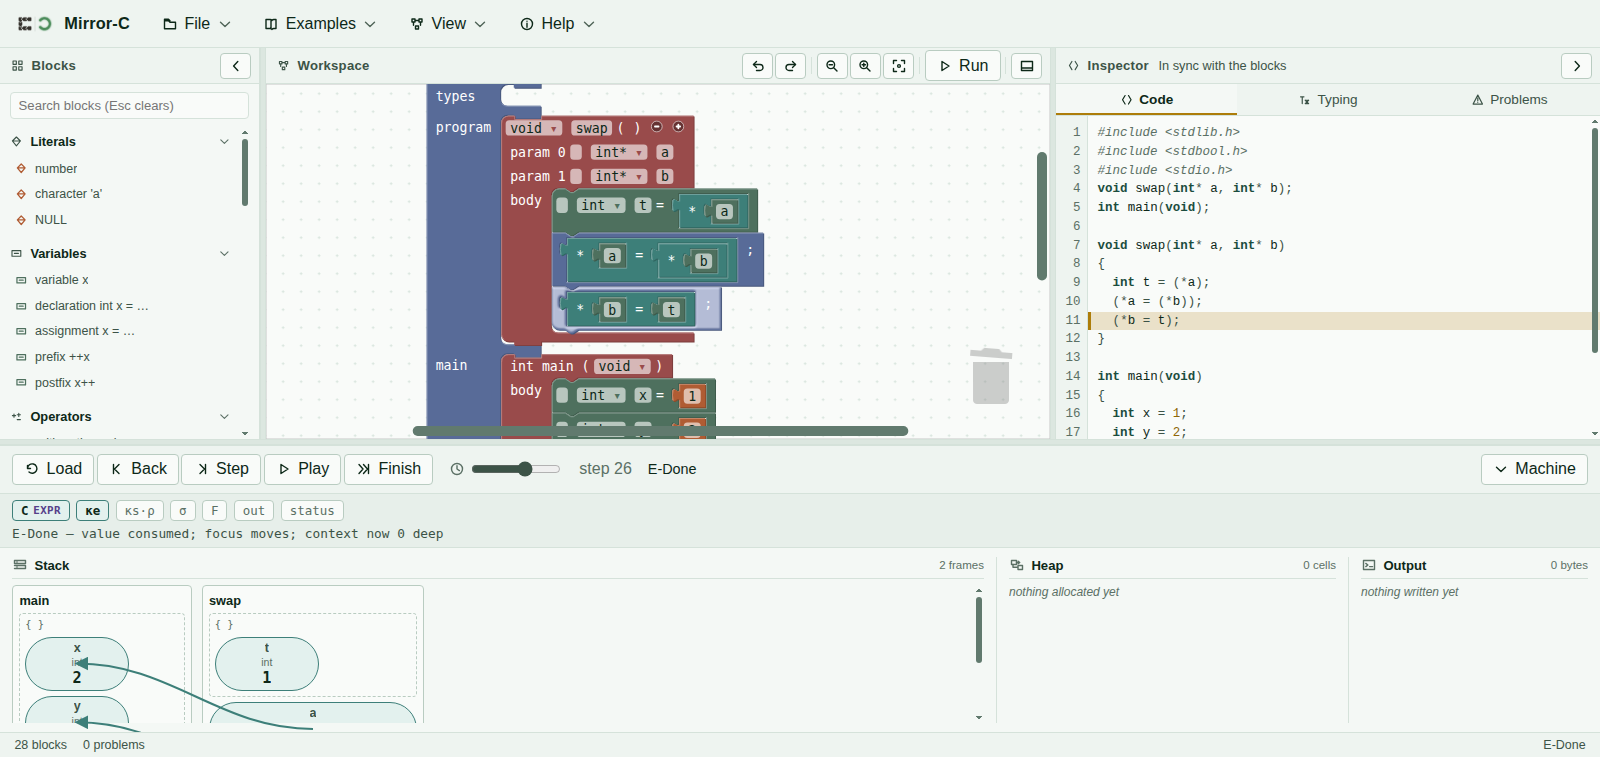
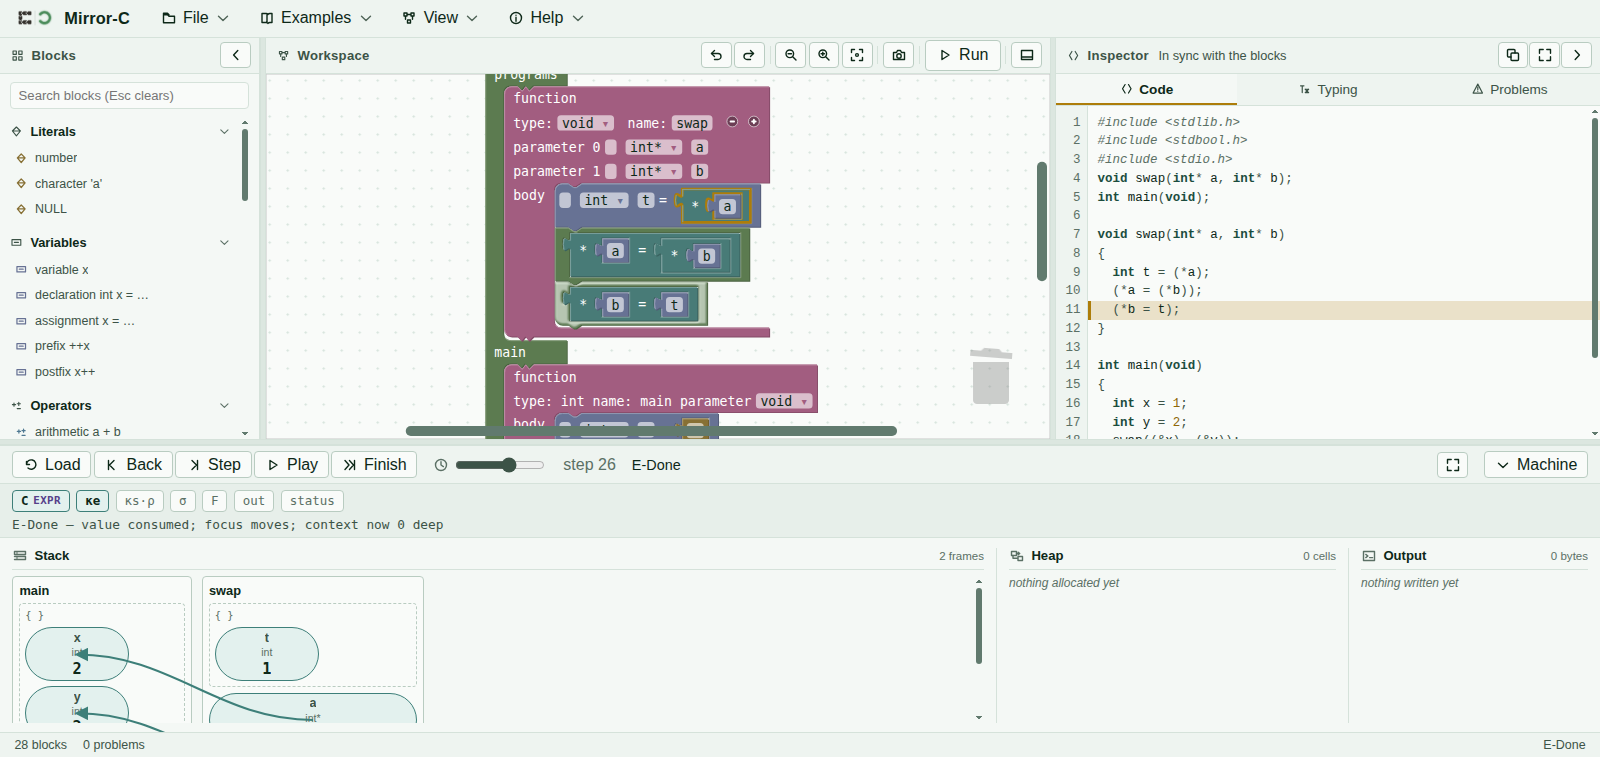
update help of mirror-c

diff --git a/help-mirror-c/blocks.html b/help-mirror-c/blocks.html
@@ -92,6 +92,13 @@
                     workspace or dragged into it; a click drops it on a small cascading offset so repeated clicks do
                     not stack invisibly, a drag lands exactly under the cursor at whatever zoom you are at.</p>
 
+                <figure class="help-fig is-shot">
+                    <img src="assets/img/mirror-c-palette.png" loading="lazy"
+                        alt="Mirror-C's default boot program with the block palette open on the left, showing the Literals, Variables and Operators drawers and the search box above them.">
+                    <figcaption><b>Fig. 1</b> The palette, on the default boot program &mdash; a minimal
+                        <code>main</code> with nothing else built yet.</figcaption>
+                </figure>
+
                 <div class="help-table-wrap">
                     <table class="help-table">
                         <thead>
@@ -114,8 +121,8 @@
                                     &middot; <code>element&nbsp;a[i]&nbsp;&middot;&nbsp;a[i][j]</code> &middot;
                                     <code>element&nbsp;assignment</code></td></tr>
                             <tr><td><b>Structs &amp; enums</b></td>
-                                <td><code>struct&nbsp;definition</code> &middot; <code>union&nbsp;definition</code>
-                                    &middot; <code>enum&nbsp;definition</code> &middot; <code>field&nbsp;s.f</code>
+                                <td><code>structure&nbsp;definition</code> &middot; <code>union&nbsp;definition</code>
+                                    &middot; <code>enumeration&nbsp;definition</code> &middot; <code>field&nbsp;s.f</code>
                                     &middot; <code>field&nbsp;assignment</code> &middot;
                                     <code>arrow&nbsp;field&nbsp;p-&gt;f</code> &middot; <code>arrow&nbsp;assignment</code></td></tr>
                             <tr><td><b>Pointers</b></td>
@@ -127,13 +134,13 @@
                                 <td><code>call&nbsp;f(&hellip;)</code></td></tr>
                             <tr><td><b>Statements</b></td>
                                 <td><code>expression&nbsp;statement&nbsp;&hellip;;</code> &middot;
-                                    <code>printf(&nbsp;"&hellip;"&nbsp;,&nbsp;&hellip;&nbsp;)</code></td></tr>
+                                    <code>printf&nbsp;"&hellip;"&nbsp;&hellip;</code></td></tr>
                             <tr><td><b>Control</b></td>
                                 <td><code>if&nbsp;/&nbsp;else</code> &middot; <code>while</code> &middot;
                                     <code>for</code> &middot; <code>break</code> &middot; <code>continue</code>
                                     &middot; <code>return</code></td></tr>
                             <tr><td><b>Memory</b></td>
-                                <td><code>free(&nbsp;p&nbsp;)</code></td></tr>
+                                <td><code>free&nbsp;p</code></td></tr>
                             <tr><td><b>Functions</b></td>
                                 <td><code>function&nbsp;definition</code></td></tr>
                         </tbody>
@@ -143,9 +150,13 @@
                 <p>Two labelling choices are worth knowing about so a name doesn't slow you down. <code>printf</code>
                     lives in <b>Statements</b> rather than in a drawer of its own &mdash; it is one statement among
                     several, not a category the way <code>malloc</code>/<code>free</code> earn one. And a block's
-                    label is usually its own surface syntax (<code>&amp; x</code>, <code>* p</code>,
+                    label stays close to its own surface syntax (<code>&amp; x</code>, <code>* p</code>,
                     <code>a&nbsp;[&nbsp;i&nbsp;]</code>) rather than a name, on the theory that you are scanning the
-                    list for the <em>shape</em> of the C you want to write, not for a keyword you already know.</p>
+                    list for the <em>shape</em> of the C you want to write, not for a keyword you already know
+                    &mdash; though not always literal C: a few labels spell a word out
+                    (<code>structure</code>, <code>enumeration</code>, <code>argument&nbsp;0</code>) where the raw
+                    C keyword or a bare position number would read as noise in a block instead of code on a
+                    line.</p>
 
                 <h2 id="canvas">Two roots you can never drag</h2>
                 <p>Every workspace has exactly one program root and exactly one <code>main</code>, and neither is
@@ -199,6 +210,13 @@
                 <p>Duplicate and Delete never appear on the program root or on <code>main</code> &mdash; both are the
                     one block of their kind that must always exist, so the two entries that could remove or copy them
                     are absent rather than present-and-refused.</p>
+
+                <figure class="help-fig is-shot">
+                    <img src="assets/img/mirror-c-context-menu.png" loading="lazy"
+                        alt="A right-click on an ordinary block, opening a small menu with two entries: Duplicate and Delete 2 Blocks. Right-clicking empty workspace instead opens a different menu with Undo, Redo and Clean up Blocks.">
+                    <figcaption><b>Fig. 2</b> The block menu &mdash; Duplicate and Delete. Right-click the empty
+                        workspace instead and you get the other three entries: Undo, Redo, Clean up blocks.</figcaption>
+                </figure>
 
                 <nav class="help-pager" aria-label="Chapter navigation">
                     <a href="getting-started.html">

diff --git a/help-mirror-c/types.html b/help-mirror-c/types.html
@@ -143,6 +143,14 @@
                         expected.</li>
                 </ul>
 
+                <figure class="help-fig is-shot">
+                    <img src="assets/img/mirror-c-struct-block.png" loading="lazy"
+                        alt="A linked list example on the heap: two struct Node cells, each with a val and a next field, with arrows from main's pointer variables a and b landing on the two heap cells.">
+                    <figcaption><b>Fig. 1</b> Two <code>struct Node</code> cells on the heap, <code>a</code> and
+                        <code>b</code> pointing at them from <code>main</code>'s frame &mdash; a container of cells,
+                        drawn exactly the way an array's elements are.</figcaption>
+                </figure>
+
                 <h2 id="width">sizeof, and const</h2>
                 <p>A cell's on-screen width is <code>sizeof</code> of its type, computed once from the type itself
                     and read by nothing semantic &mdash; it is geometry, not behaviour. That distinction is not
@@ -175,6 +183,13 @@
                     function's context genuinely grows with every declaration and shrinks again at every scope exit.
                     A block's closing row visibly reverts to the same context name it opened with, which is the
                     derivation's own way of showing a scope's variables have gone out of it.</p>
+
+                <figure class="help-fig is-shot">
+                    <img src="assets/img/mirror-c-typing-tab.png" loading="lazy"
+                        alt="The Typing tab showing a derivation for main: a premises-over-a-bar proof tree with rows labelled WF-Decl, WF-Expr, T-Int and T-ArrowAssign, each row a clickable judgement.">
+                    <figcaption><b>Fig. 2</b> A derivation for <code>main</code>, expanded. Each row names the rule
+                        that justifies it, and clicking one selects the block it is about.</figcaption>
+                </figure>
 
                 <h2 id="problems">The Problems tab</h2>
                 <p>The same checker's diagnostics surface as a clickable list in the <b>Problems</b> tab, with a

diff --git a/help-mirror-c/semantics.html b/help-mirror-c/semantics.html
@@ -142,12 +142,19 @@
                 <p>The landing example makes this concrete:</p>
                 <pre><code>int *f(void) { int x = 1; return &amp;x; }
 int main(void) { int *p = f(); int y = *p; return y; }</code></pre>
-                <p>Fifteen steps in, Mirror-C stops:</p>
+                <p>Thirteen steps in, Mirror-C stops:</p>
                 <blockquote><p><b>Stuck &mdash; Use After Return (E-DerefPopped)</b></p></blockquote>
                 <p>and the picture shows exactly why: <code>f</code>'s frame is still drawn, greyed, with
                     <code>x</code> greyed inside it, because <code>p</code> still points there &mdash; two arrows
                     converging on a dead block. <code>gcc -O0</code> and <code>clang -O0</code> compile the same
                     program without a word and return <code>1</code>.</p>
+
+                <figure class="help-fig is-shot">
+                    <img src="assets/img/mirror-c-stuck-use-after-return.png" loading="lazy"
+                        alt="The Mirror-C machine stopped with a red banner reading Stuck: UseAfterReturn. The status line reads step 13, Stuck — Use After Return (E-DerefPopped). The Stack region shows main's frame, with f's greyed-out frame still drawn beside it and an arrow from p landing on the dead cell.">
+                    <figcaption><b>Fig. 1</b> The landing example, stopped. <code>f</code>'s frame stays drawn and
+                        greyed after it returns, and <code>p</code>'s arrow still lands on it.</figcaption>
+                </figure>
 
                 <h2 id="stuck">Twelve reasons, and the list is closed</h2>
                 <p>Every stuck configuration carries a named <b>Reason</b>, and the set of names is fixed at twelve.

diff --git a/help-mirror-c/study.html b/help-mirror-c/study.html
@@ -102,6 +102,13 @@
                 <p>If the marker is not there, nothing is being recorded. If it says <b>Recording STOPPED</b>, something
                     went wrong and the session should be paused &mdash; tell whoever is running it.</p>
 
+                <figure class="help-fig is-shot">
+                    <img src="assets/img/mirror-c-rec-indicator.png" loading="lazy"
+                        alt="The status bar at the bottom right of the window, reading a red dot, REC, between tasks — the marker shown while a study session is recording but no task is currently open.">
+                    <figcaption><b>Fig. 1</b> The status bar's own REC marker, here reading
+                        <em>between tasks</em>.</figcaption>
+                </figure>
+
                 <h2 id="recorded">What is recorded</h2>
                 <ul>
                     <li><b>Block edits.</b> That a block was created, moved, deleted, or that one of its fields was

diff --git a/help-mirror-c/reference.html b/help-mirror-c/reference.html
@@ -176,6 +176,13 @@
                     own maximize button, independent of the inspector's, for a deep stack or a large heap that the
                     resizer alone cannot make room for.</p>
 
+                <figure class="help-fig is-shot">
+                    <img src="assets/img/mirror-c-maximize.png" loading="lazy"
+                        alt="The machine dock maximized, taking most of the window height while the code panel shrinks to a strip above it, with the workspace still visible in a narrow band.">
+                    <figcaption><b>Fig. 1</b> The machine dock maximized &mdash; the workspace stays visible in a
+                        narrow band rather than being covered outright.</figcaption>
+                </figure>
+
                 <h2 id="files">File formats</h2>
                 <div class="help-table-wrap">
                     <table class="help-table">

diff --git a/help-mirror-c/getting-started.html b/help-mirror-c/getting-started.html
@@ -177,6 +177,12 @@
                     program as plain <code>.c</code> text, and saves a screenshot of the canvas. Work is kept
                     automatically as you go, so closing the tab by accident is recoverable.</p>
 
+                <figure class="help-fig is-shot">
+                    <img src="assets/img/mirror-c-file-menu.png" loading="lazy"
+                        alt="The File menu open, listing New workspace, Open, Save workspace, Import C source, Export C source, Save screenshot, and Restore autosave.">
+                    <figcaption><b>Fig. 2</b> Everything this section describes is one door: the File menu.</figcaption>
+                </figure>
+
                 <nav class="help-pager" aria-label="Chapter navigation">
                     <a href="index.html">
                         <span>Previous &mdash; 01</span>
